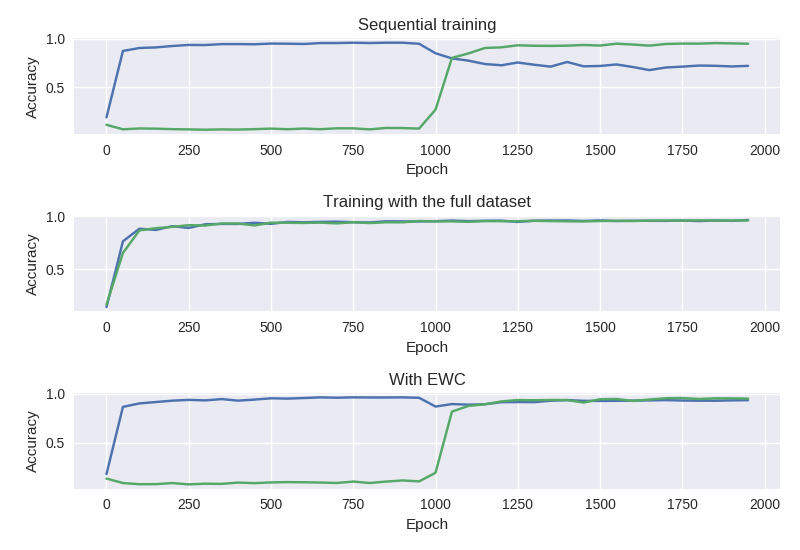
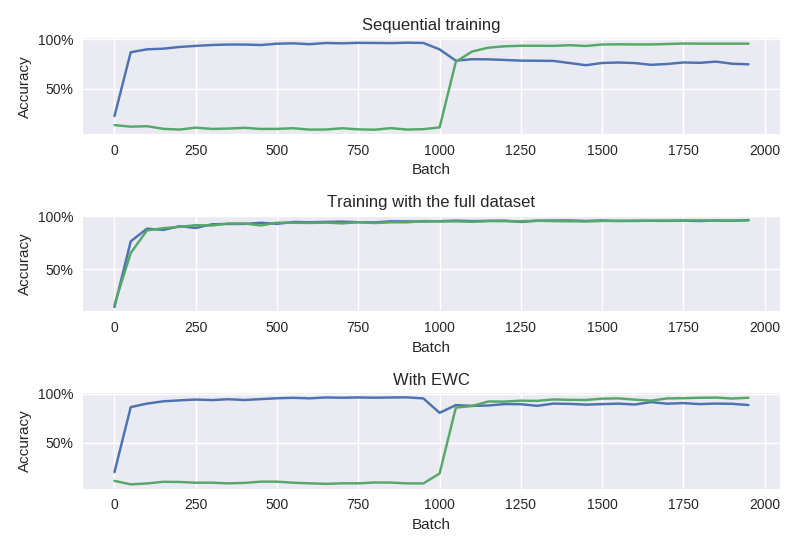
Update README with new pictures and a better description

diff --git a/plot_mnist.py b/plot_mnist.py
@@ -1,0 +1,32 @@
+import matplotlib.pyplot as plt
+import numpy as np
+import seaborn as sns
+from tensorflow.examples.tutorials.mnist import input_data
+
+
+def mnist_imshow(img):
+    plt.imshow(img.reshape([28, 28]), cmap="gray")
+    plt.axis("off")
+
+
+if __name__ == "__main__":
+
+    sns.set()
+
+    mnist = input_data.read_data_sets("./MNIST_data", one_hot=True)
+
+    num_images = len(mnist.train._images)
+    img = mnist.train._images[2017]
+
+    np.random.seed(1)
+    perm = np.random.permutation(mnist.train._images.shape[1])
+
+    img_permuted = img[perm]
+
+    plt.figure()
+    mnist_imshow(img)
+
+    plt.figure()
+    mnist_imshow(img_permuted)
+
+    plt.show()

diff --git a/README.md b/README.md
@@ -1,50 +1,90 @@
 # Less Forgetful Neural Networks Using Elastic Weight Consolidation
 
-![Accuracy on two dataset with different training scenarios.](sequential-and-mixed-and-ewc.png)
+![Accuracy on two datasets with different training scenarios.](sequential-and-mixed-and-ewc.png)
 
-This work is based on a DeepMind paper ([Kirkpatrick et al., 2016](https://arxiv.org/pdf/1612.00796.pdf)).
+## Problem
 
-**Problem.** When training a neural network sequentially to perform multiple different tasks, the first tasks will be overwritten by the latter (in that the weights in the network are "repurposed" to better fit the latter tasks, and no longer represent what was originally learnt for the first task). This is referred to as catastrophic forgetting.
+When training a neural network sequentially on two or more tasks, the weights learned for the first tasks will get overwritten as weights are learned for the latter tasks.
+This is referred to as **catastrophic forgetting**.
+The top graph shows how the accuracy goes down on the first dataset as we begin training with a second dataset.
 
-**Solution.** The solution is inspired by nature and recent research into how mammals such as ourselves are able to continuously learn different tasks without overwriting previous ones. (Now, I'm not a brain researcher...) Learning a task that uses particular synapses strengthens those synapses, making them more persistent to prevent subsequent learned tasks from "overwriting" what was saved in them. The corresponding solution in artificial neural networks, as suggested by Kirkpatrick et al., is called *elastic weight consolidation*, and it works by slowing down learning in nodes that are vital for some previously learned task.
+One way to avoid catastrophic forgetting is to ensure that all training data is available during the initial training.
+The second graph from the top shows how we can get good performance on both datasets if we use both of them when training the network from the start.
 
-## Data
+Alternatively, we could be storing (some) data from previous training sessions to be replayed to the network as it learns new tasks to prevent it from forgetting previously learned ones.
+None of these solutions are fully satisfactory; all training data might not be available at the start, or there might be very large amounts of training data and it would be impractical to store it or to replay it to the network later. 
 
-One of the experiments detailed in the paper uses data derived from the MNIST dataset, used as input for a classification task. (The other, more interesting one uses the network to learn to play Atari games. Also see e.g. [DQN](https://deepmind.com/research/dqn/) and the [Arcade Learning Environment](https://github.com/mgbellemare/Arcade-Learning-Environment).)
+## Solution
 
-This experiment uses the simpler classification data (which has a bit of a hello-world status in machine learning and classification, so the advantage is that I was already familiar with the dataset, and quite possibly most people reading this will be as well).
+The solution is inspired by an observation about mammalian brains.
+As animals learn new tasks, the related synapses in the brain are strengthened, making them less plastic and thus less likely to be overwritten.
+
+The idea translates to artificial neural networks as follows:
+we slow down reassignment in weights that have been identified to be important for previous tasks.
+This is something of a Bayesian approach: we have prior information about the values of the weights and how certain we are about those values.
+
+In practice, there is a quadratic penalty added to the cost function for moving the weights from their original positions.
+The importance is represented by the diagonal of the Fisher information matrix.
+The algorithm is called **Elastic Weight Consolidation**.
+(See [Kirkpatrick et al., 2016](https://arxiv.org/pdf/1612.00796.pdf)). 
+
+The bottom graph shows how we can use EWC to maintain relatively good performance on the first dataset even when the dataset is no longer used for training.
+Other things that affect performance is the importance we place on the old values, and the capabilities of the network to learn many tasks (= the number of nodes and layers).
+
+## Setup
+
+### Data
+
+One of the experiments in the paper uses data from the MNIST dataset (handwritten digit classification).
+
+To generate additional datasets, fixed permutations are applied to the data.
+
+#### Example
+
+![A figure seven from the dataset](seven.png)
+![The same figure permuted](seven_permuted.png)
+
+### Neural network
+
+Partially following the setup in the paper, our network is a fully connected "traditional" MLP with ReLU activation functions.
+The network has two hidden layers with weight and bias nodes.
+We use stochastic gradient descent for the weight optimization.
+(For further details, probably best to look at the code as I might have shuffled some things around.)
 
 ## Reproducing the "catastrophic forgetting" effect
 
-The different tasks will be to classify handwritten digits in
+The first part is easy:
+we define the network architecture and train it normally with the original dataset.
+After that, we start training it on the second dataset (as if we were starting from scratch with random weights).
 
-1. their original form
-2. in a "permuted" form (we specify a transformation to apply to the MNIST data).
+After every SGD minibatch we evaluate the performance on both the first dataset and the second one.
+Initially, the performance on the second dataset is basically as good as guessing, as the datasets don't resemble each other at all.
+As we start training on the second dataset, the network forgets some of what it had learned about the original one, and the accuracy becomes worse.
 
-I will first train the network to classify handwritten digits as usual, and measure its performance. 
-Then I'll continue training the network on the permuted dataset, and measure its performance on both the first and the second dataset. 
-The expected result is that the performance gets drastically worse on the first dataset.
+## Learn both tasks together
 
-![Graph showing loss of accuracy on first dataset as NN learns a second one.](sequential.png)
+This one's partly just sanity-checking:
+we expect that the network will be able to learn good weights for both tasks at the same time.
+The graph shows that we reach similar levels of accuracy here as we did for each dataset individually in the first experiment.
 
-## One solution: Learn both tasks together
-
-Downsides: we have to have all the data at the start (or need to retrain the network on *all* previous data every time we want to teach it a new task.)
-
-![Graph showing difference between sequential and interleaved training](sequential-and-mixed.png)
+(The accuracy is nowhere near state-of-the-art, but good enough to demonstrate the effects.)
 
 ## Adding in Elastic Weight Consolidation
 
-**Idea:** Constrain parameters important for the previously learned task to stay near their old values as we adjust the parameters to also fit the next task.
+We first train the network normally (using the same cross-entropy cross function as we used for both setups above).
 
-As long as the network is sufficiently overparameterized, we can expect that there will likely be a "good" solution that works for both tasks near the one found for the first task (= not all parameters are "really important").
+Then, we save the optimal weight values for the first task (the squared penalty will be relative to these), and also compute the Fisher diagonal from the first dataset.
+During the second training round, we are using an augmented cost function with an additional penalty term defined as in the paper.
 
-### Fisher information matrix
+## Future work
 
-
+- Parallelize computation of the Fisher diagonal for speed. See *stokesj*'s implementation for reference.
+- Test overlap of Fisher information, like in the paper.
+- Teach the network contradictory datasets and see how that affects performance (e.g. instead of permutations of the MNIST dataset, take "inverted" images).
+- Define a way to train beyond the second dataset.
 
 ## Links
 
 - [TensorFlow and Deep Learning, Without a PhD](https://codelabs.developers.google.com/codelabs/cloud-tensorflow-mnist/#0)
 - [Another TensorFlow EWC implementation on GitHub by James Stokes](https://github.com/stokesj/EWC)
-- [One more TensorFlow EWC implementation on GitHub by ariseff](https://github.com/ariseff/overcoming-catastrophic)
+- [Overcoming catastrophic forgetting in neural networks. *Kirkpatrick et al., 2016.*](https://arxiv.org/pdf/1612.00796.pdf)
